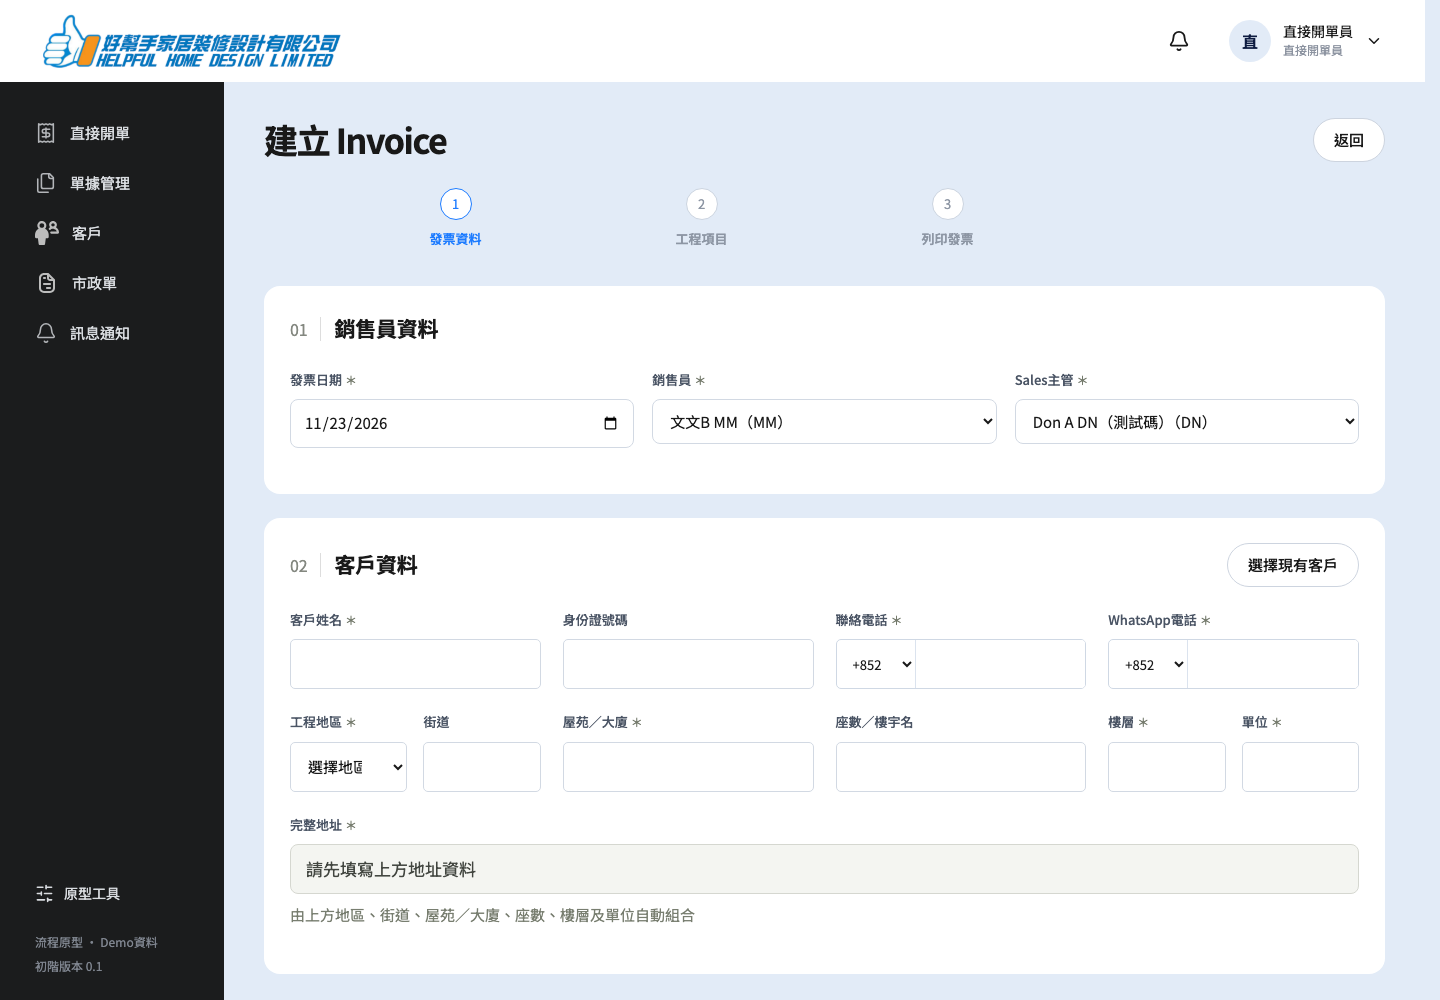
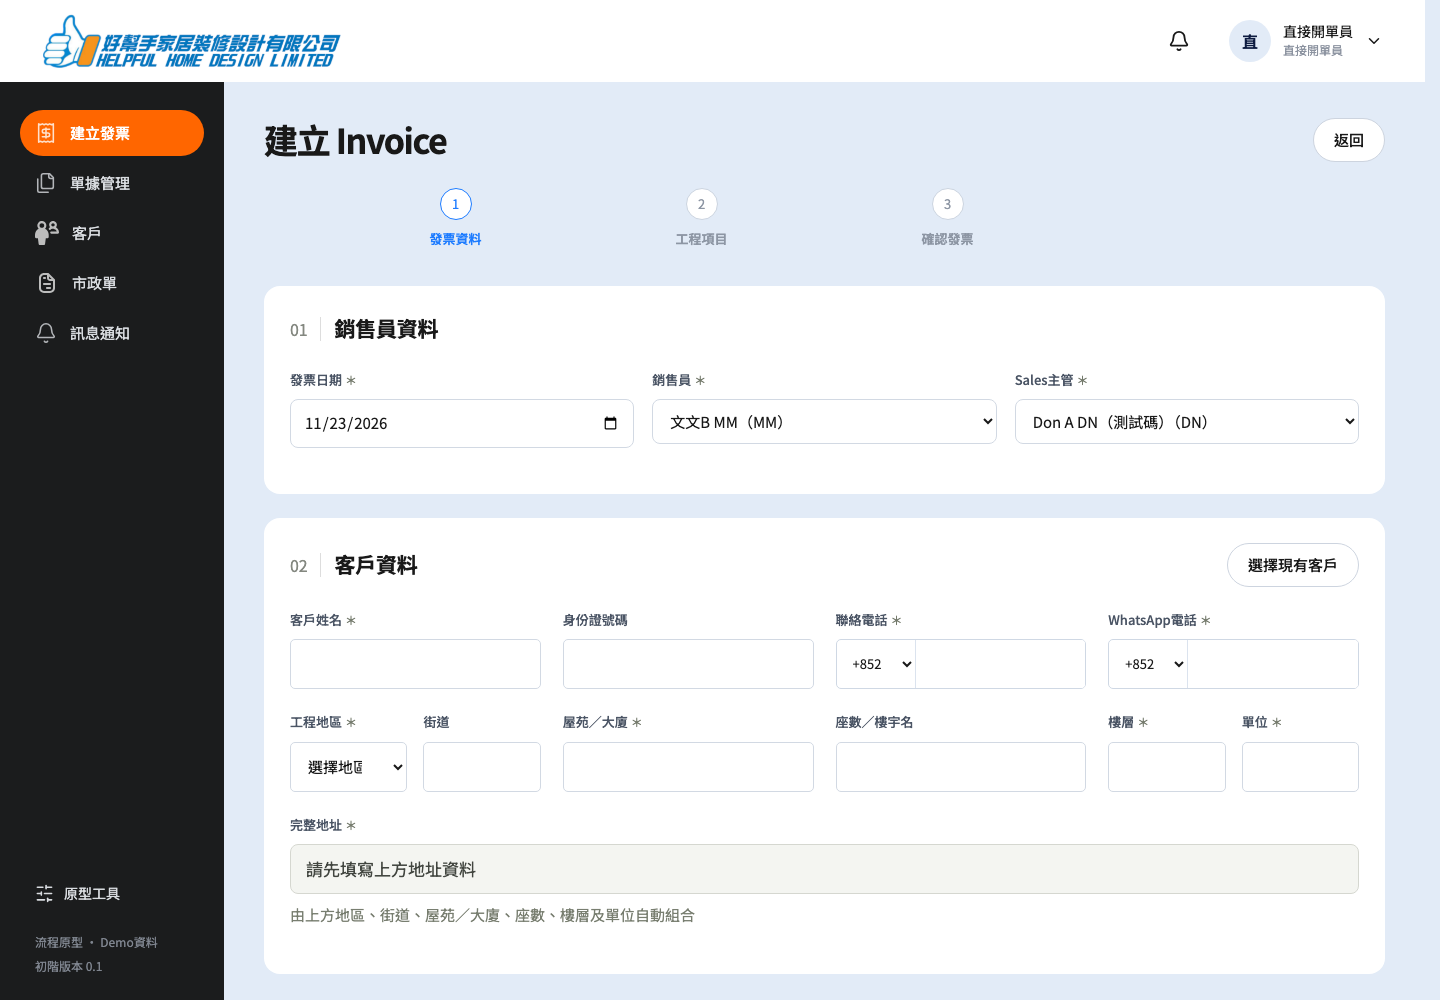
fix(direct-invoice): confirm returns to step one

diff --git a/src/pages/DirectInvoices.tsx b/src/pages/DirectInvoices.tsx
@@ -1,112 +1,5 @@
-import { useNavigate } from "react-router-dom";
-import { Plus } from "lucide-react";
-import { useApp } from "../context";
-import {
-  Button,
-  CategoryChips,
-  Empty,
-  PageHead,
-  Pagination,
-  usePagination,
-} from "../components/ui";
-import { money } from "../domain/types";
+import { Navigate } from "react-router-dom";
 
 export function DirectInvoices() {
-  const { actor, engine } = useApp();
-  const nav = useNavigate();
-  const invoices = engine.listInvoices(actor);
-  const shown = [...invoices].sort((a, b) =>
-    b.createdAt.localeCompare(a.createdAt),
-  );
-  const pager = usePagination(shown, "");
-  return (
-    <>
-      <PageHead
-        eyebrow="直接開單"
-        title="直接開 Invoice"
-        description="由開單員直接建立 Invoice，不需要先建立報價單。"
-        actions={
-          <Button
-            variant="primary"
-            onClick={() => nav("/quotes/new?direct=1")}
-          >
-            <Plus size={19} /> 新增 Invoice
-          </Button>
-        }
-      />
-      <div className="list-panel">
-        {shown.length === 0 ? (
-          <Empty
-            title="暫無 Invoice"
-            description="按「新增 Invoice」直接建立第一張單。"
-            action={
-              <Button
-                variant="primary"
-                onClick={() => nav("/quotes/new?direct=1")}
-              >
-                <Plus size={19} /> 新增 Invoice
-              </Button>
-            }
-          />
-        ) : (
-          <div className="table-scroll">
-            <table className="invoice-list-table">
-              <thead>
-                <tr>
-                  <th>Invoice單</th>
-                  <th>日期</th>
-                  <th>客戶／地區</th>
-                  <th>分類</th>
-                  <th className="numeric">成交額</th>
-                  <th>狀態</th>
-                </tr>
-              </thead>
-              <tbody>
-                {pager.items.map((invoice) => (
-                  <tr
-                    key={invoice.id}
-                    className="submission-clickable-row"
-                    tabIndex={0}
-                    onClick={() => nav("/invoices/" + invoice.id)}
-                    onKeyDown={(event) => {
-                      if (event.key === "Enter" || event.key === " ") {
-                        event.preventDefault();
-                        nav("/invoices/" + invoice.id);
-                      }
-                    }}
-                  >
-                    <td>
-                      <strong>{invoice.number}</strong>
-                    </td>
-                    <td>{invoice.createdAt.slice(0, 10)}</td>
-                    <td>
-                      <strong>{invoice.customer.name}</strong>
-                      <small>{invoice.customer.district || "地址待補"}</small>
-                    </td>
-                    <td>
-                      {invoice.category ? (
-                        <CategoryChips categories={[invoice.category]} />
-                      ) : (
-                        "—"
-                      )}
-                    </td>
-                    <td className="numeric money">{money(invoice.netTotal)}</td>
-                    <td>{invoice.voided ? "已退單" : "已開立"}</td>
-                  </tr>
-                ))}
-              </tbody>
-            </table>
-          </div>
-        )}
-        {pager.total > 0 && (
-          <Pagination
-            page={pager.page}
-            pages={pager.pages}
-            total={pager.total}
-            onChange={pager.setPage}
-          />
-        )}
-      </div>
-    </>
-  );
+  return <Navigate to="/quotes/new?direct=1" replace />;
 }

diff --git a/src/pages/Quotes.tsx b/src/pages/Quotes.tsx
@@ -864,9 +864,19 @@ export function QuoteEditor() {
           supervisorId,
           date: invoiceDate,
         }),
-      "Invoice已建立。",
+      undefined,
     );
-    if (invoice) nav("/documents/invoice/" + invoice.id);
+    if (!invoice) return;
+    run(() => invoice, `發票${invoice.number}已建立`);
+    setWizardStep(1);
+    setCustomer(structuredClone(EMPTY_CUSTOMER));
+    setLines([]);
+    setDiscountMode("none");
+    setDiscountValue(0);
+    setReason("");
+    setInvoiceDate(todayValue);
+    setSalesId(salesOptions[0]?.id ?? "");
+    setSupervisorId(supervisorOptions[0]?.id ?? "");
   }
   function save(destination: "draft" | "deal" | "handoff") {
     const q = run(
@@ -1542,10 +1552,14 @@ export function QuoteEditor() {
           {directInvoice && wizardStep === 3 && (
             <>
               <h2 className="quote-step-title">3. 確認發票</h2>
-              <div className="handoff-actions">
-                <Button variant="primary" onClick={createDirectInvoice}>
-                  <Printer size={18} /> 列印發票
+              <div className="handoff-actions direct-confirm-actions">
+                <Button
+                  variant="primary"
+                  onClick={() => window.print()}
+                >
+                  <Printer size={18} /> 列印
                 </Button>
+                <Button onClick={() => setWizardStep(2)}>修改</Button>
               </div>
               <div className="handoff-print-grid">
                 <div className="handoff-print-settings">
@@ -1592,17 +1606,6 @@ export function QuoteEditor() {
                   <p className="handoff-note">
                     預覽後按「確定建立發票」正式建立發票；此步驟不設報價單或客戶簽署。
                   </p>
-                  <Button
-                    className="full-width"
-                    variant="primary"
-                    onClick={() =>
-                      document
-                        .getElementById("direct-invoice-preview")
-                        ?.scrollIntoView({ behavior: "smooth" })
-                    }
-                  >
-                    預覽發票
-                  </Button>
                 </div>
                 <div
                   className="handoff-quote-preview"

diff --git a/tests/e2e/direct-invoice.spec.ts b/tests/e2e/direct-invoice.spec.ts
@@ -8,11 +8,6 @@ async function switchRole(page: import("@playwright/test").Page, name: string) {
 test("直接開單員可以建立 Invoice，不需要報價單", async ({ page }) => {
   await page.goto("/");
   await switchRole(page, "直接開單員");
-  await expect(page).toHaveURL(/\/direct-invoices$/);
-  await expect(
-    page.getByRole("heading", { name: "直接開 Invoice", exact: true }),
-  ).toBeVisible();
-  await page.getByRole("button", { name: "新增 Invoice", exact: true }).first().click();
   await expect(page).toHaveURL(/\/quotes\/new\?direct=1$/);
   await expect(
     page.getByRole("heading", { name: "銷售員資料", exact: false }),
@@ -47,7 +42,9 @@ test("直接開單員可以建立 Invoice，不需要報價單", async ({ page }
   await expect(page.getByText("預覽發票", { exact: true }).first()).toBeVisible();
   await expect(page.getByText("INVOICE", { exact: true })).toBeVisible();
   await page.getByRole("button", { name: /確定建立發票/ }).click();
-  await expect(page).toHaveURL(/\/documents\/invoice\//);
-  await expect(page.getByText("直開測試客戶", { exact: false })).toBeVisible();
-  await expect(page.getByText(/DINV/).first()).toBeVisible();
+  await expect(page).toHaveURL(/\/quotes\/new\?direct=1$/);
+  await expect(page.getByText(/發票DINV\d+已建立/)).toBeVisible();
+  await expect(
+    page.getByRole("heading", { name: "銷售員資料", exact: false }),
+  ).toBeVisible();
 });

diff --git a/src/components/Shell.tsx b/src/components/Shell.tsx
@@ -58,7 +58,7 @@ export const roleHome = (role: string) =>
     : role === "finance_supervisor"
       ? "/accounting-dashboard"
       : role === "invoice_clerk"
-      ? "/direct-invoices"
+      ? "/quotes/new?direct=1"
       : role === "clerk"
         ? "/submissions"
       : role === "cs" || role === "cs_supervisor"
@@ -129,7 +129,7 @@ export function Shell() {
           ]
         : actor.role === "invoice_clerk"
         ? [
-            ["/direct-invoices", "直接開單", Receipt],
+            ["/quotes/new?direct=1", "建立發票", Receipt],
             ["/invoices", "單據管理", Files],
             ["/customers", "客戶", Users],
             ["/municipal-orders", "市政單", FileText],

diff --git a/src/styles.css b/src/styles.css
@@ -12182,3 +12182,27 @@ textarea::placeholder {
   margin-left: 28px;
   margin-right: 28px;
 }
+
+.direct-confirm-actions {
+  justify-content: flex-end;
+}
+@media print {
+  body * {
+    visibility: hidden;
+  }
+  .handoff-quote-preview,
+  .handoff-quote-preview * {
+    visibility: visible;
+  }
+  .handoff-quote-preview {
+    position: absolute;
+    inset: 0;
+    width: 100%;
+    height: auto;
+    overflow: visible;
+    border: 0;
+  }
+  .handoff-preview-title {
+    display: none;
+  }
+}
